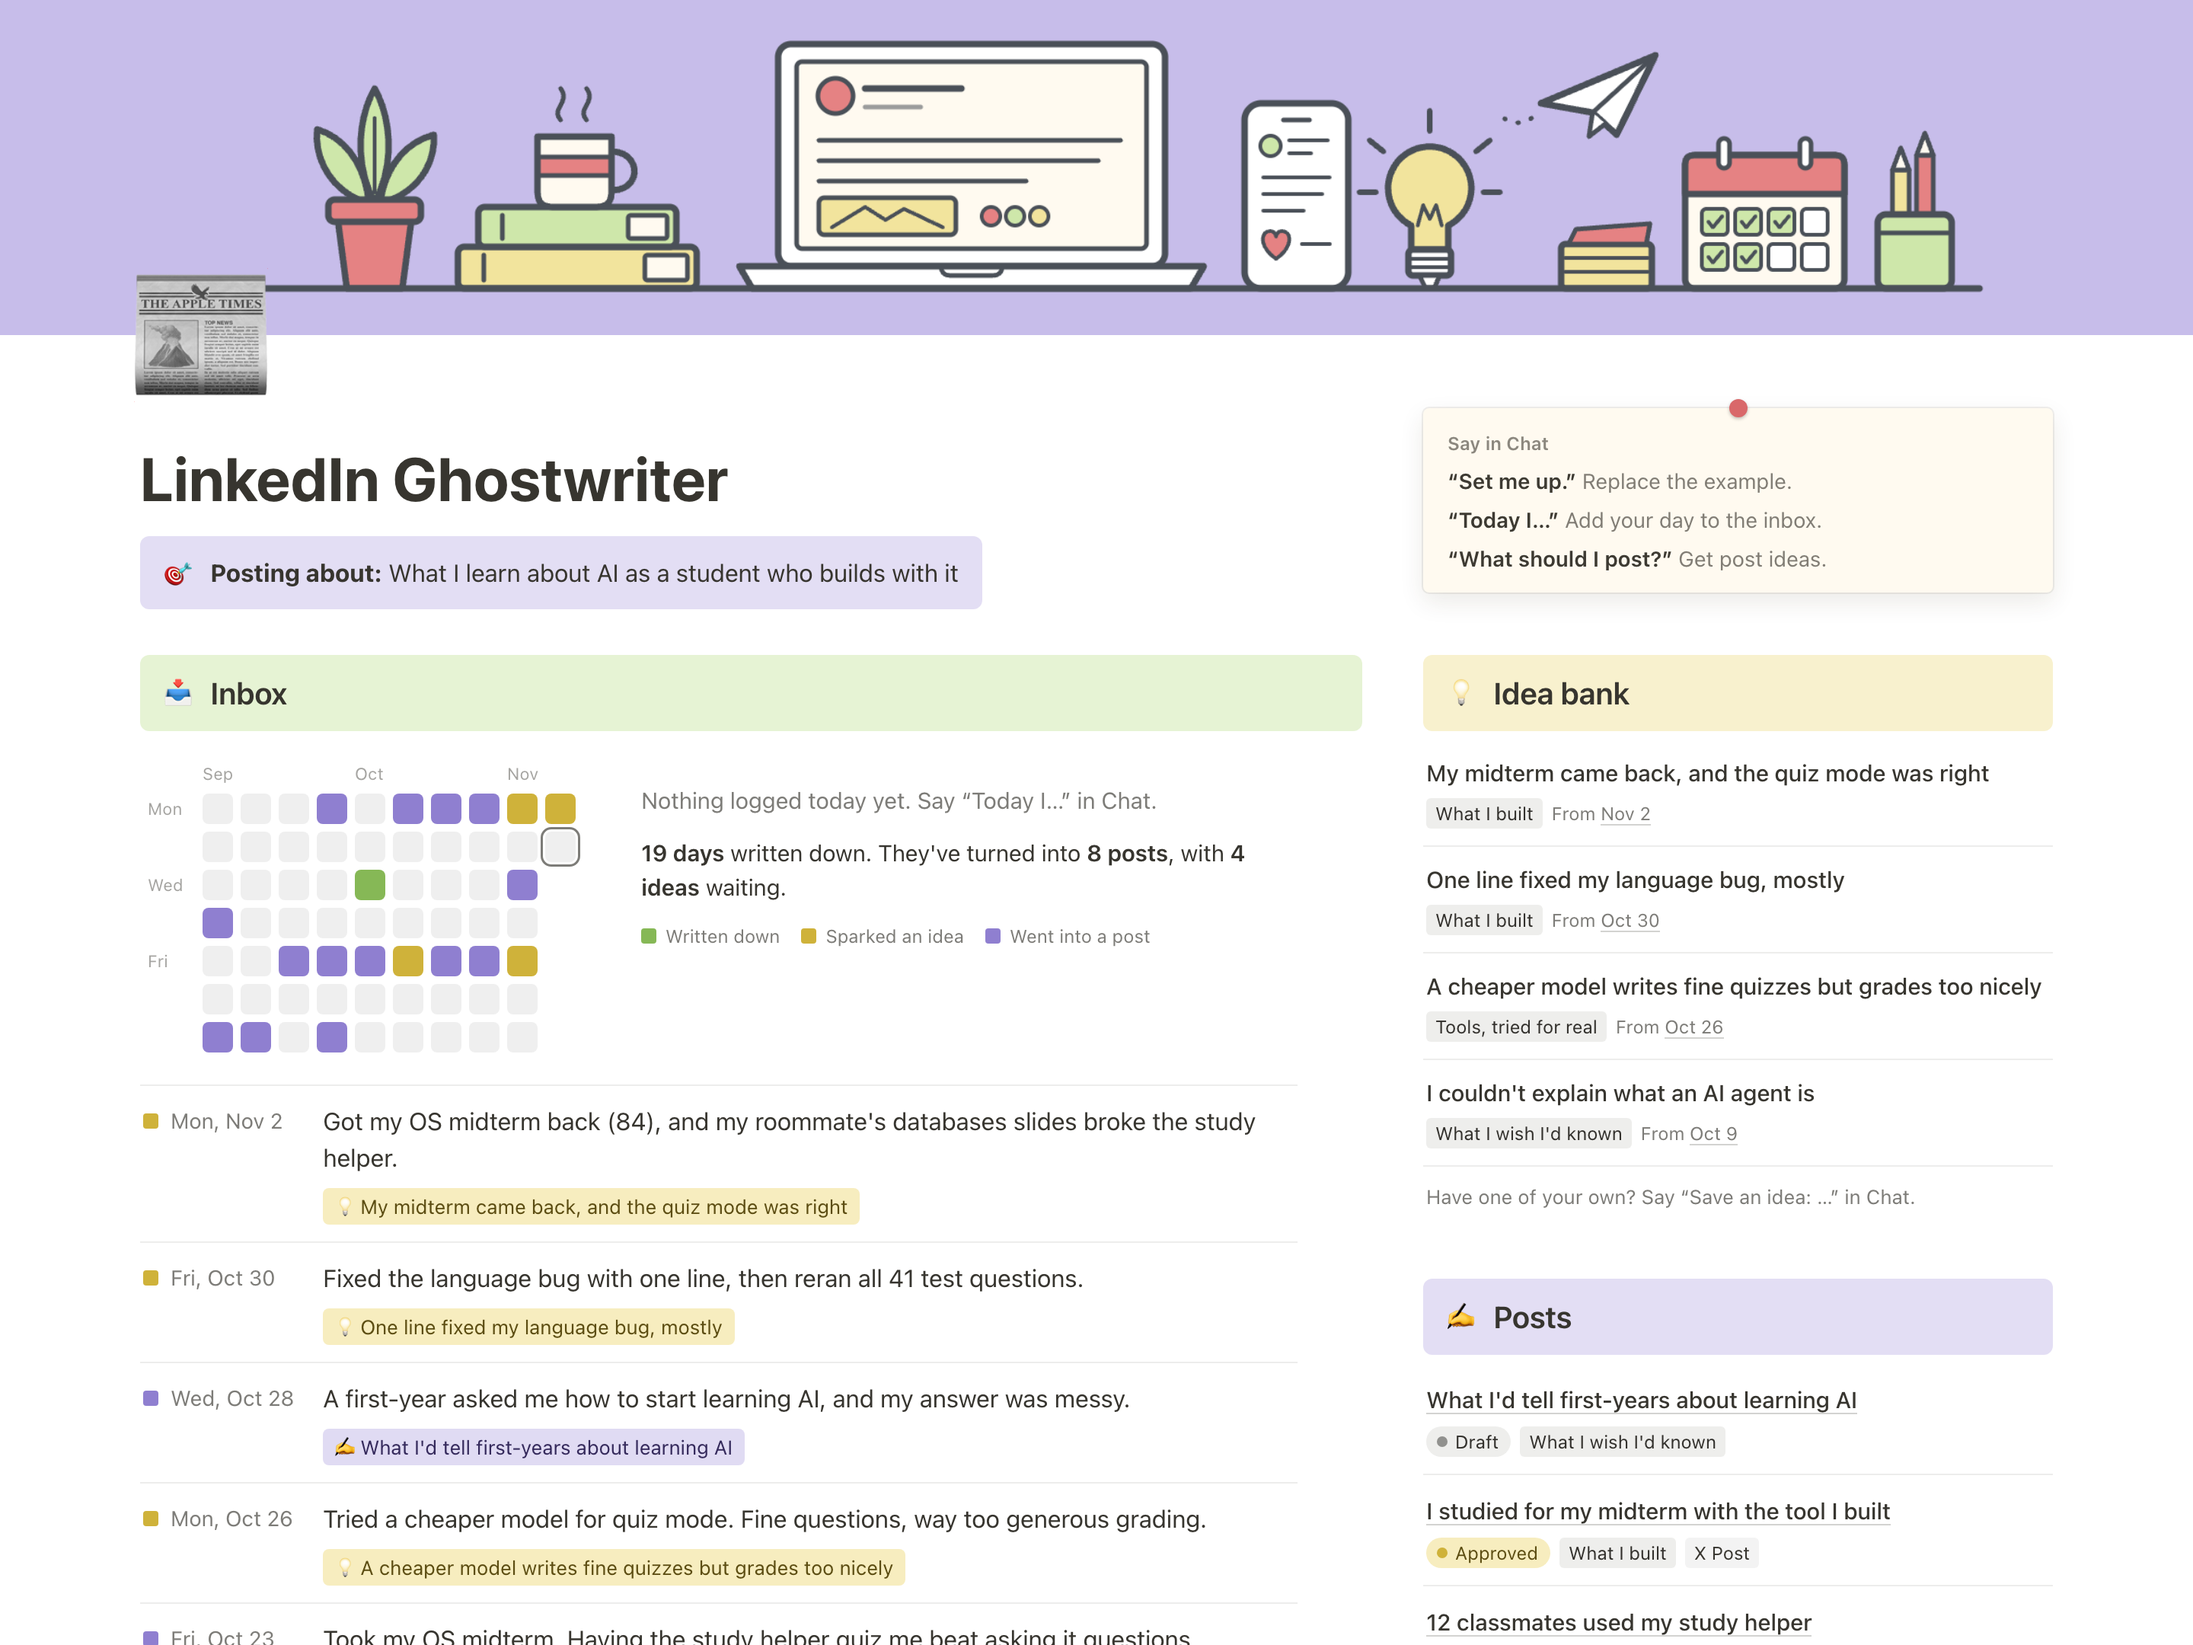
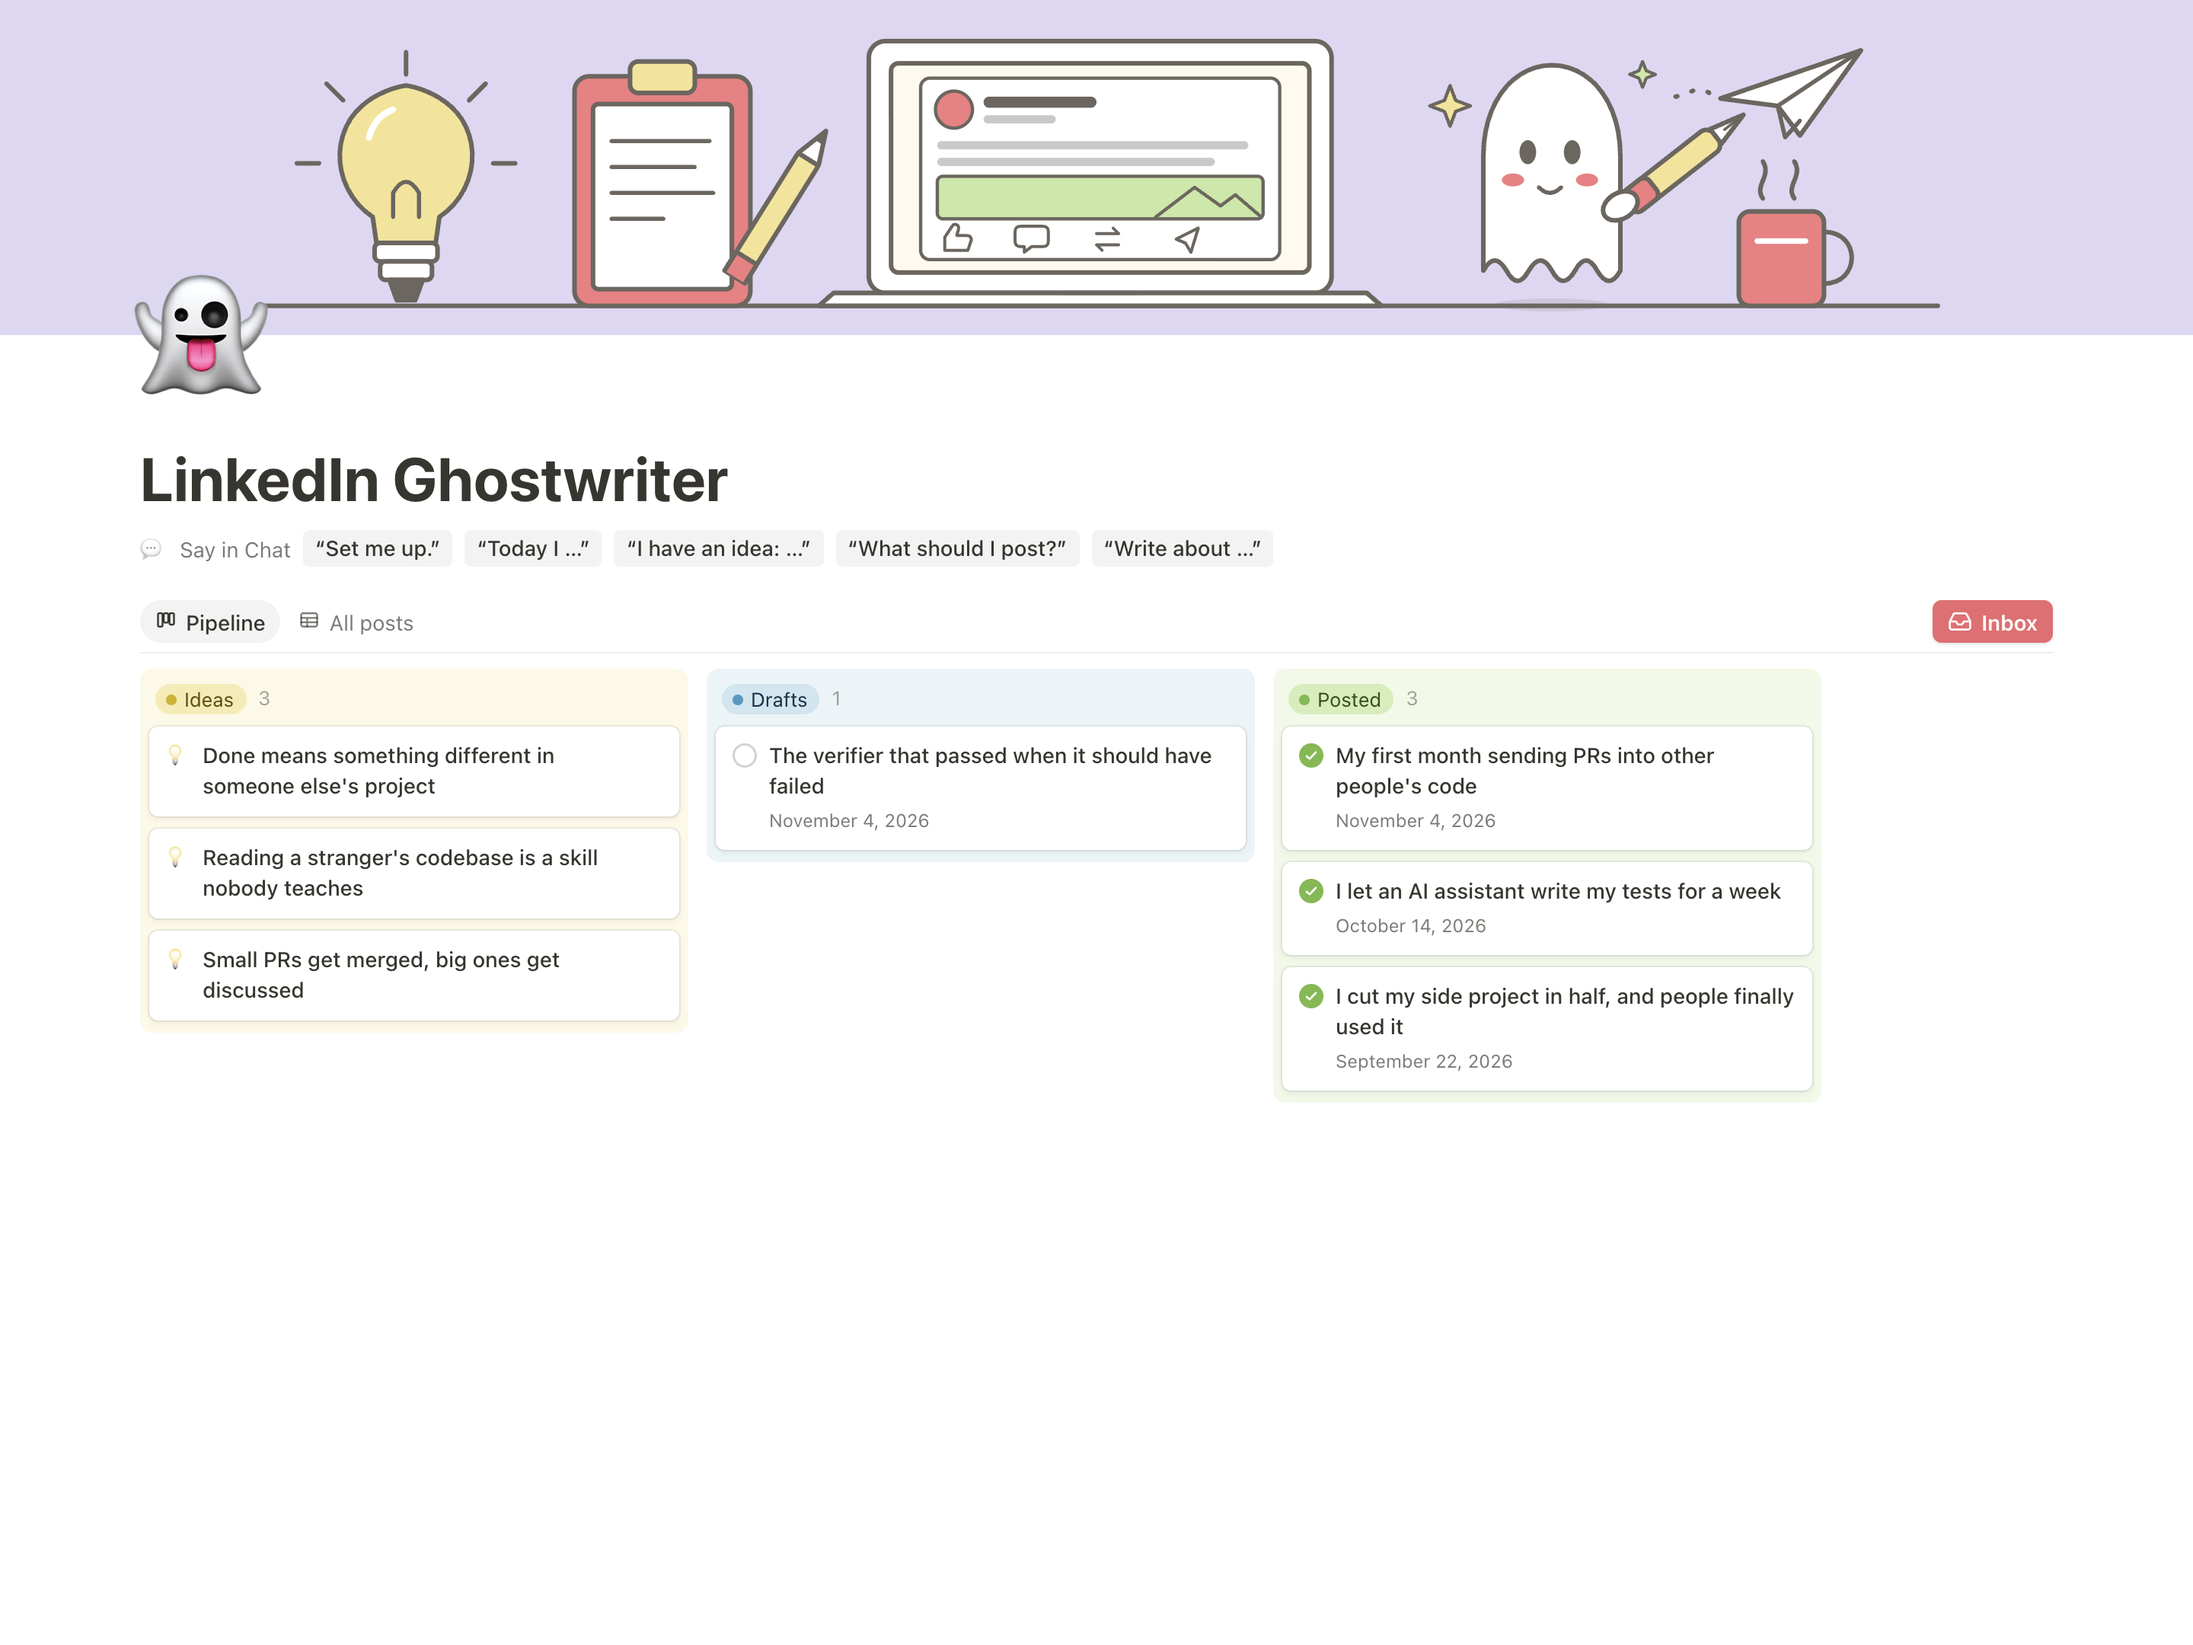
Update LinkedIn Ghostwriter
The template now starts from your ideas instead of a daily inbox: tell
the Agent an idea and ask it to write, or ask what to post. The cover
is a screenshot of its dashboard, a board of ideas, drafts, and posted
under a lavender banner, on a new sand tone that pairs with it. The
description lays out the three steps: set up, get ideas, write.

diff --git a/covers/cover.css b/covers/cover.css
@@ -15,6 +15,7 @@
 .blue   { --bg: #c4d5e6; --deep: #2a5480; }
 .clay   { --bg: #e4c8ba; --deep: #8c4632; }
 .violet { --bg: #d0cae6; --deep: #4f4389; }
+.sand   { --bg: #e6dcb4; --deep: #7a6420; }
 
 * { box-sizing: border-box; margin: 0; padding: 0; }
 html, body { width: 1600px; height: 900px; overflow: hidden; }

diff --git a/covers/linkedin-ghostwriter.html b/covers/linkedin-ghostwriter.html
@@ -9,7 +9,7 @@
   .thing img { display: block; width: 100%; }
 </style>
 </head>
-<body class="blue">
+<body class="sand">
   <div class="grain"></div>
   <div class="thing"><img src="linkedin-ghostwriter.png" alt=""></div>
 </body>

diff --git a/covers/README.md b/covers/README.md
@@ -2,7 +2,7 @@
 
 Every cover shares one 16:9 layout: a tone with paper grain and one thing the project makes, in that thing's own form, lifted off the tone. The forms differ in shape (a resume page, a post with a picture, a dark post on X, a digest drawn as 337 dots with 5 picked), so four covers side by side tell apart at card size. Only one line on each is large enough to read there; the rest is texture. The cover carries no project name (the app prints it beside the cover), no logo, and no chat bubbles. Use real content from the project.
 
-* `cover.css`: the shared tones (`green`, `blue`, `clay`, `violet`), grain, and the lifted `.thing`. The tones share one lightness, with hues far enough apart to tell cards apart at a glance.
+* `cover.css`: the shared tones (`green`, `blue`, `clay`, `violet`, `sand`), grain, and the lifted `.thing`. The tones share one lightness, with hues far enough apart to tell cards apart at a glance.
 * `<id>.html`: one file per project. Set the tone with the class on `<body>`, and draw the thing in `.thing` with its own styles. When the project's thing is an HTML page, use a real screenshot of it instead, saved next to the cover as `<id>.png` (light mode, 2x, without the browser-only "Preview mode" notice). Every page shares the same colors (coral, yellow, green) and gets its own banner color, which sits at the top of the screenshot: different from other projects' banners and from its own tone. The Banner column records them.
 * `fonts/`: Newsreader and Space Grotesk, the same as stashbase.ai.
 
@@ -16,7 +16,7 @@ sips -s format jpeg -s formatOptions 90 cover.png --out wikis/<id>/screenshots/c
 | Project | Tone and thing | Banner |
 | --- | --- | --- |
 | resume-builder | green, resume page | — |
-| linkedin-ghostwriter | blue, screenshot of the ghostwriter dashboard: the inbox check-in grid, idea bank, and posts | lavender `#c7bdea` |
+| linkedin-ghostwriter | sand, screenshot of the ghostwriter dashboard: a board of ideas, drafts, and posted | light lavender `#ddd7f2` |
 | x-content-starter | clay, post on X | — |
 | paper-tracker-for-industry | violet, weekly digest | — |
 | llm-wiki-for-papers | green, screenshot of the wiki's dashboard: topics, papers, and progress | blue `#a6cbe8` |
